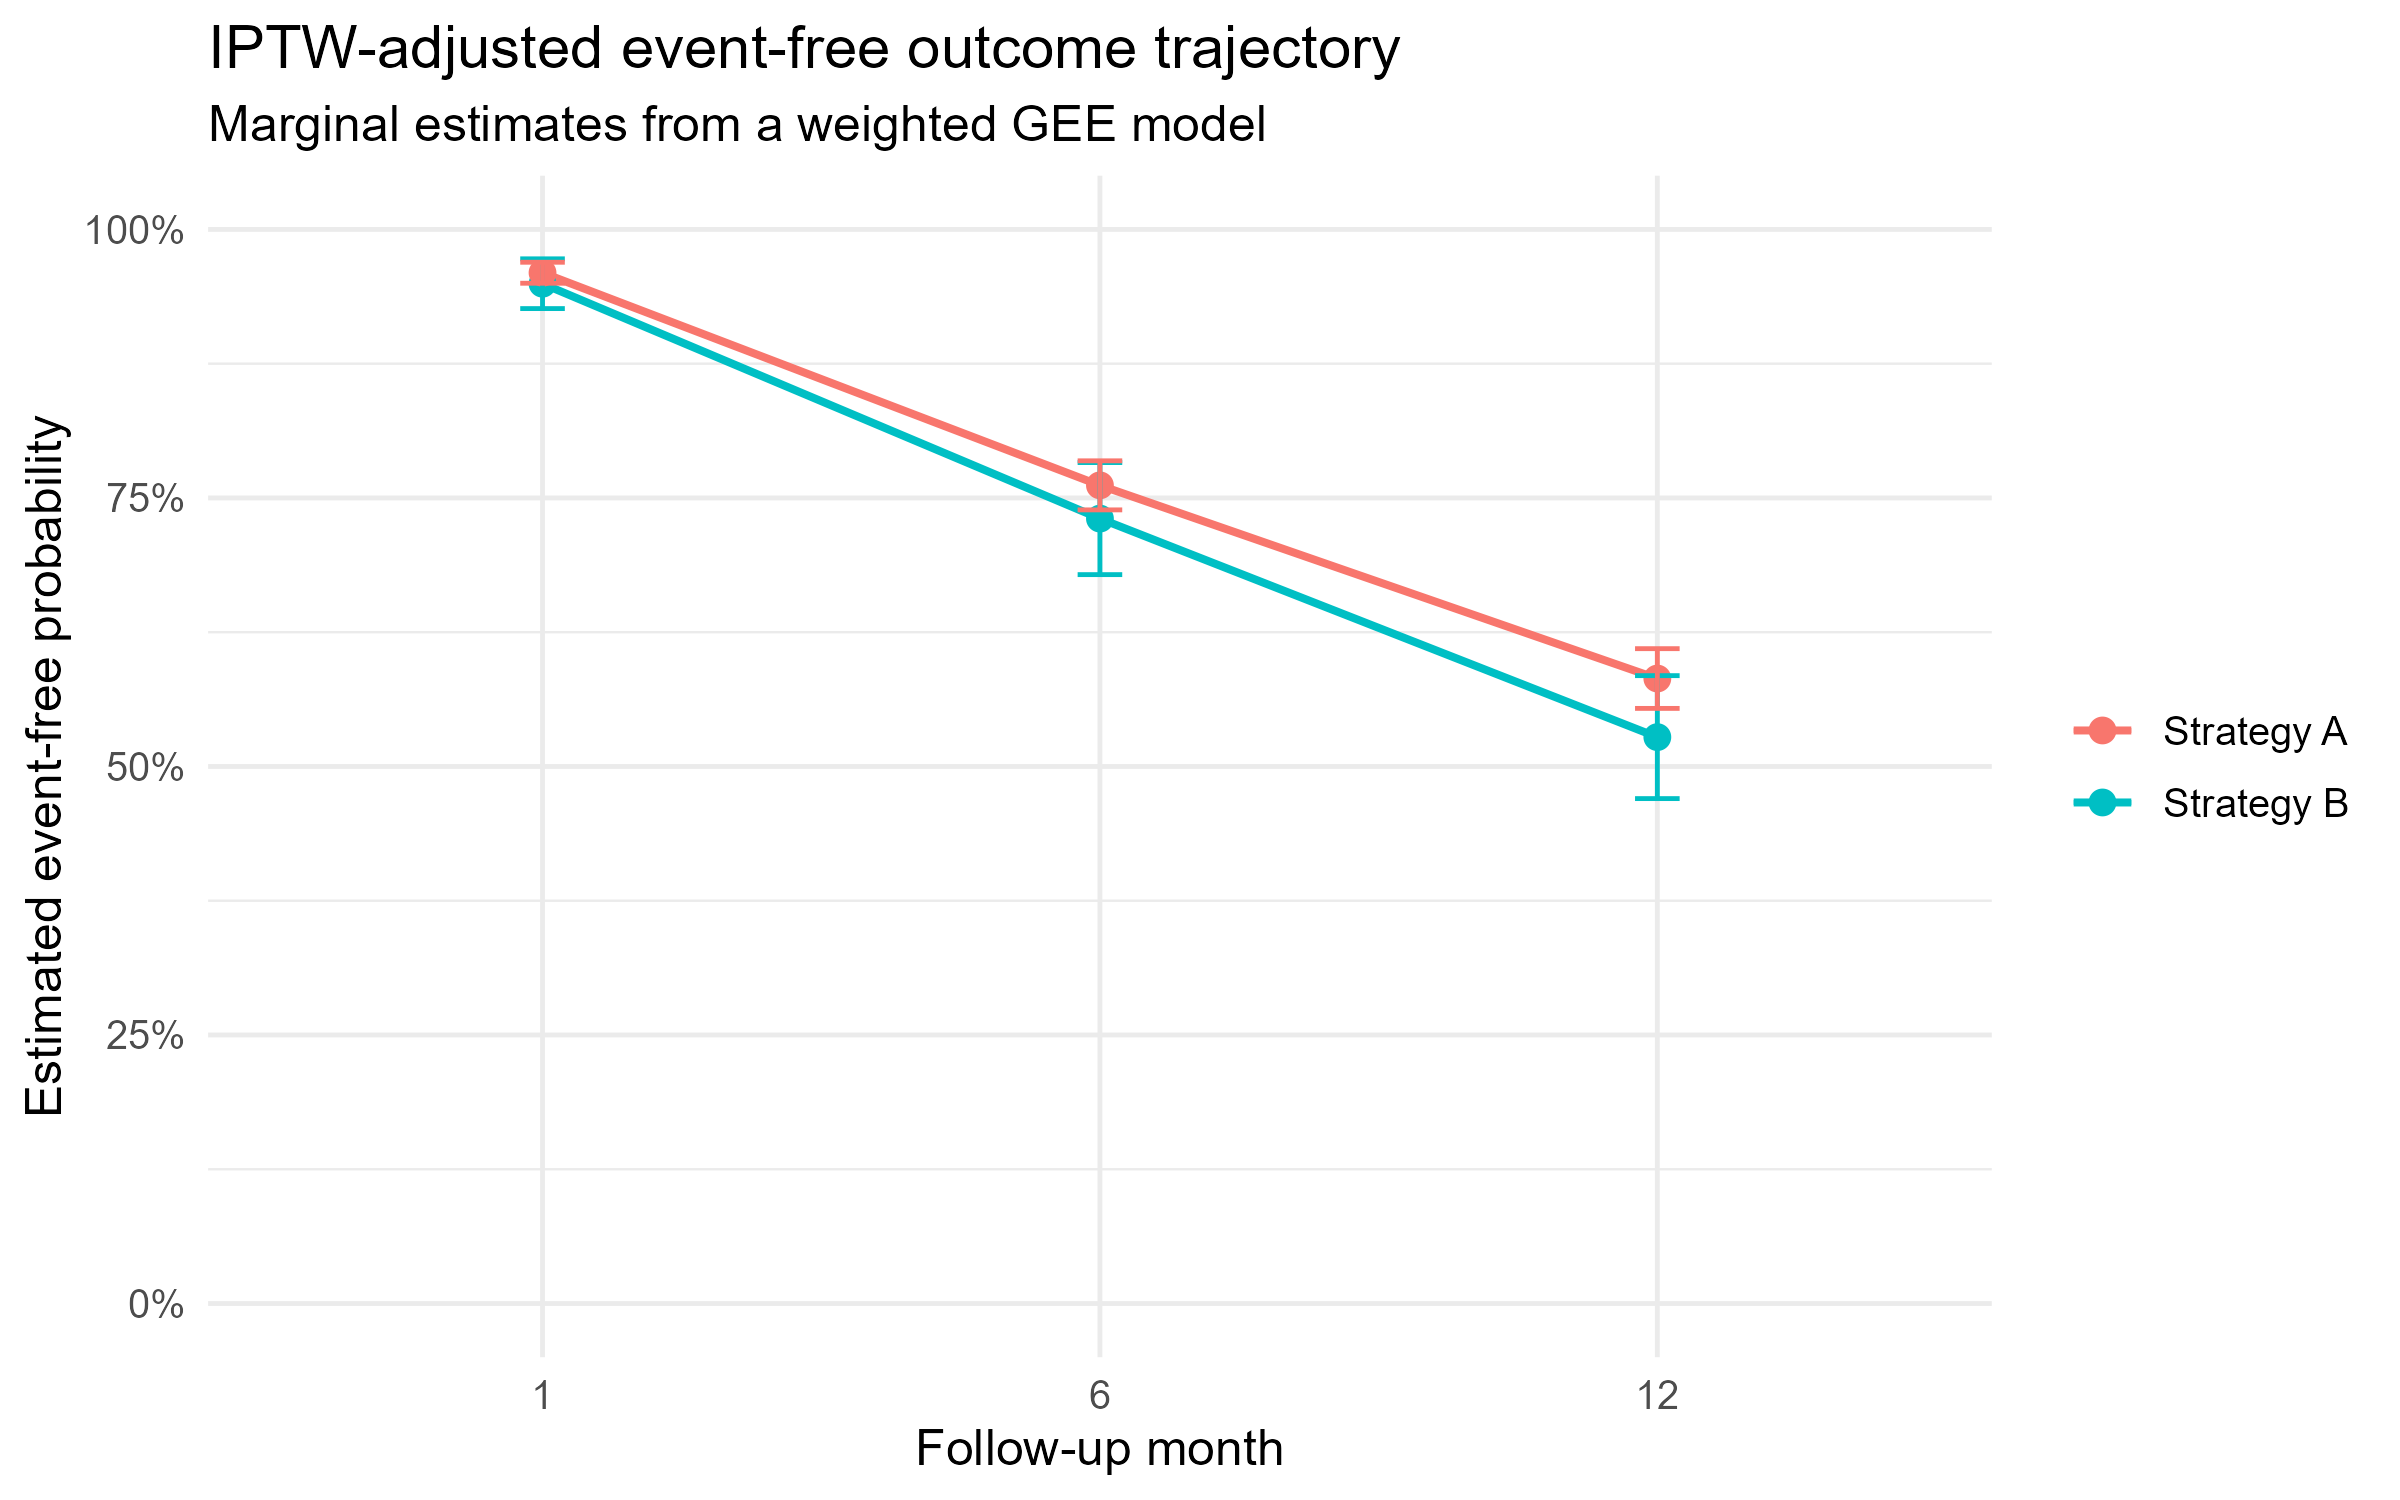
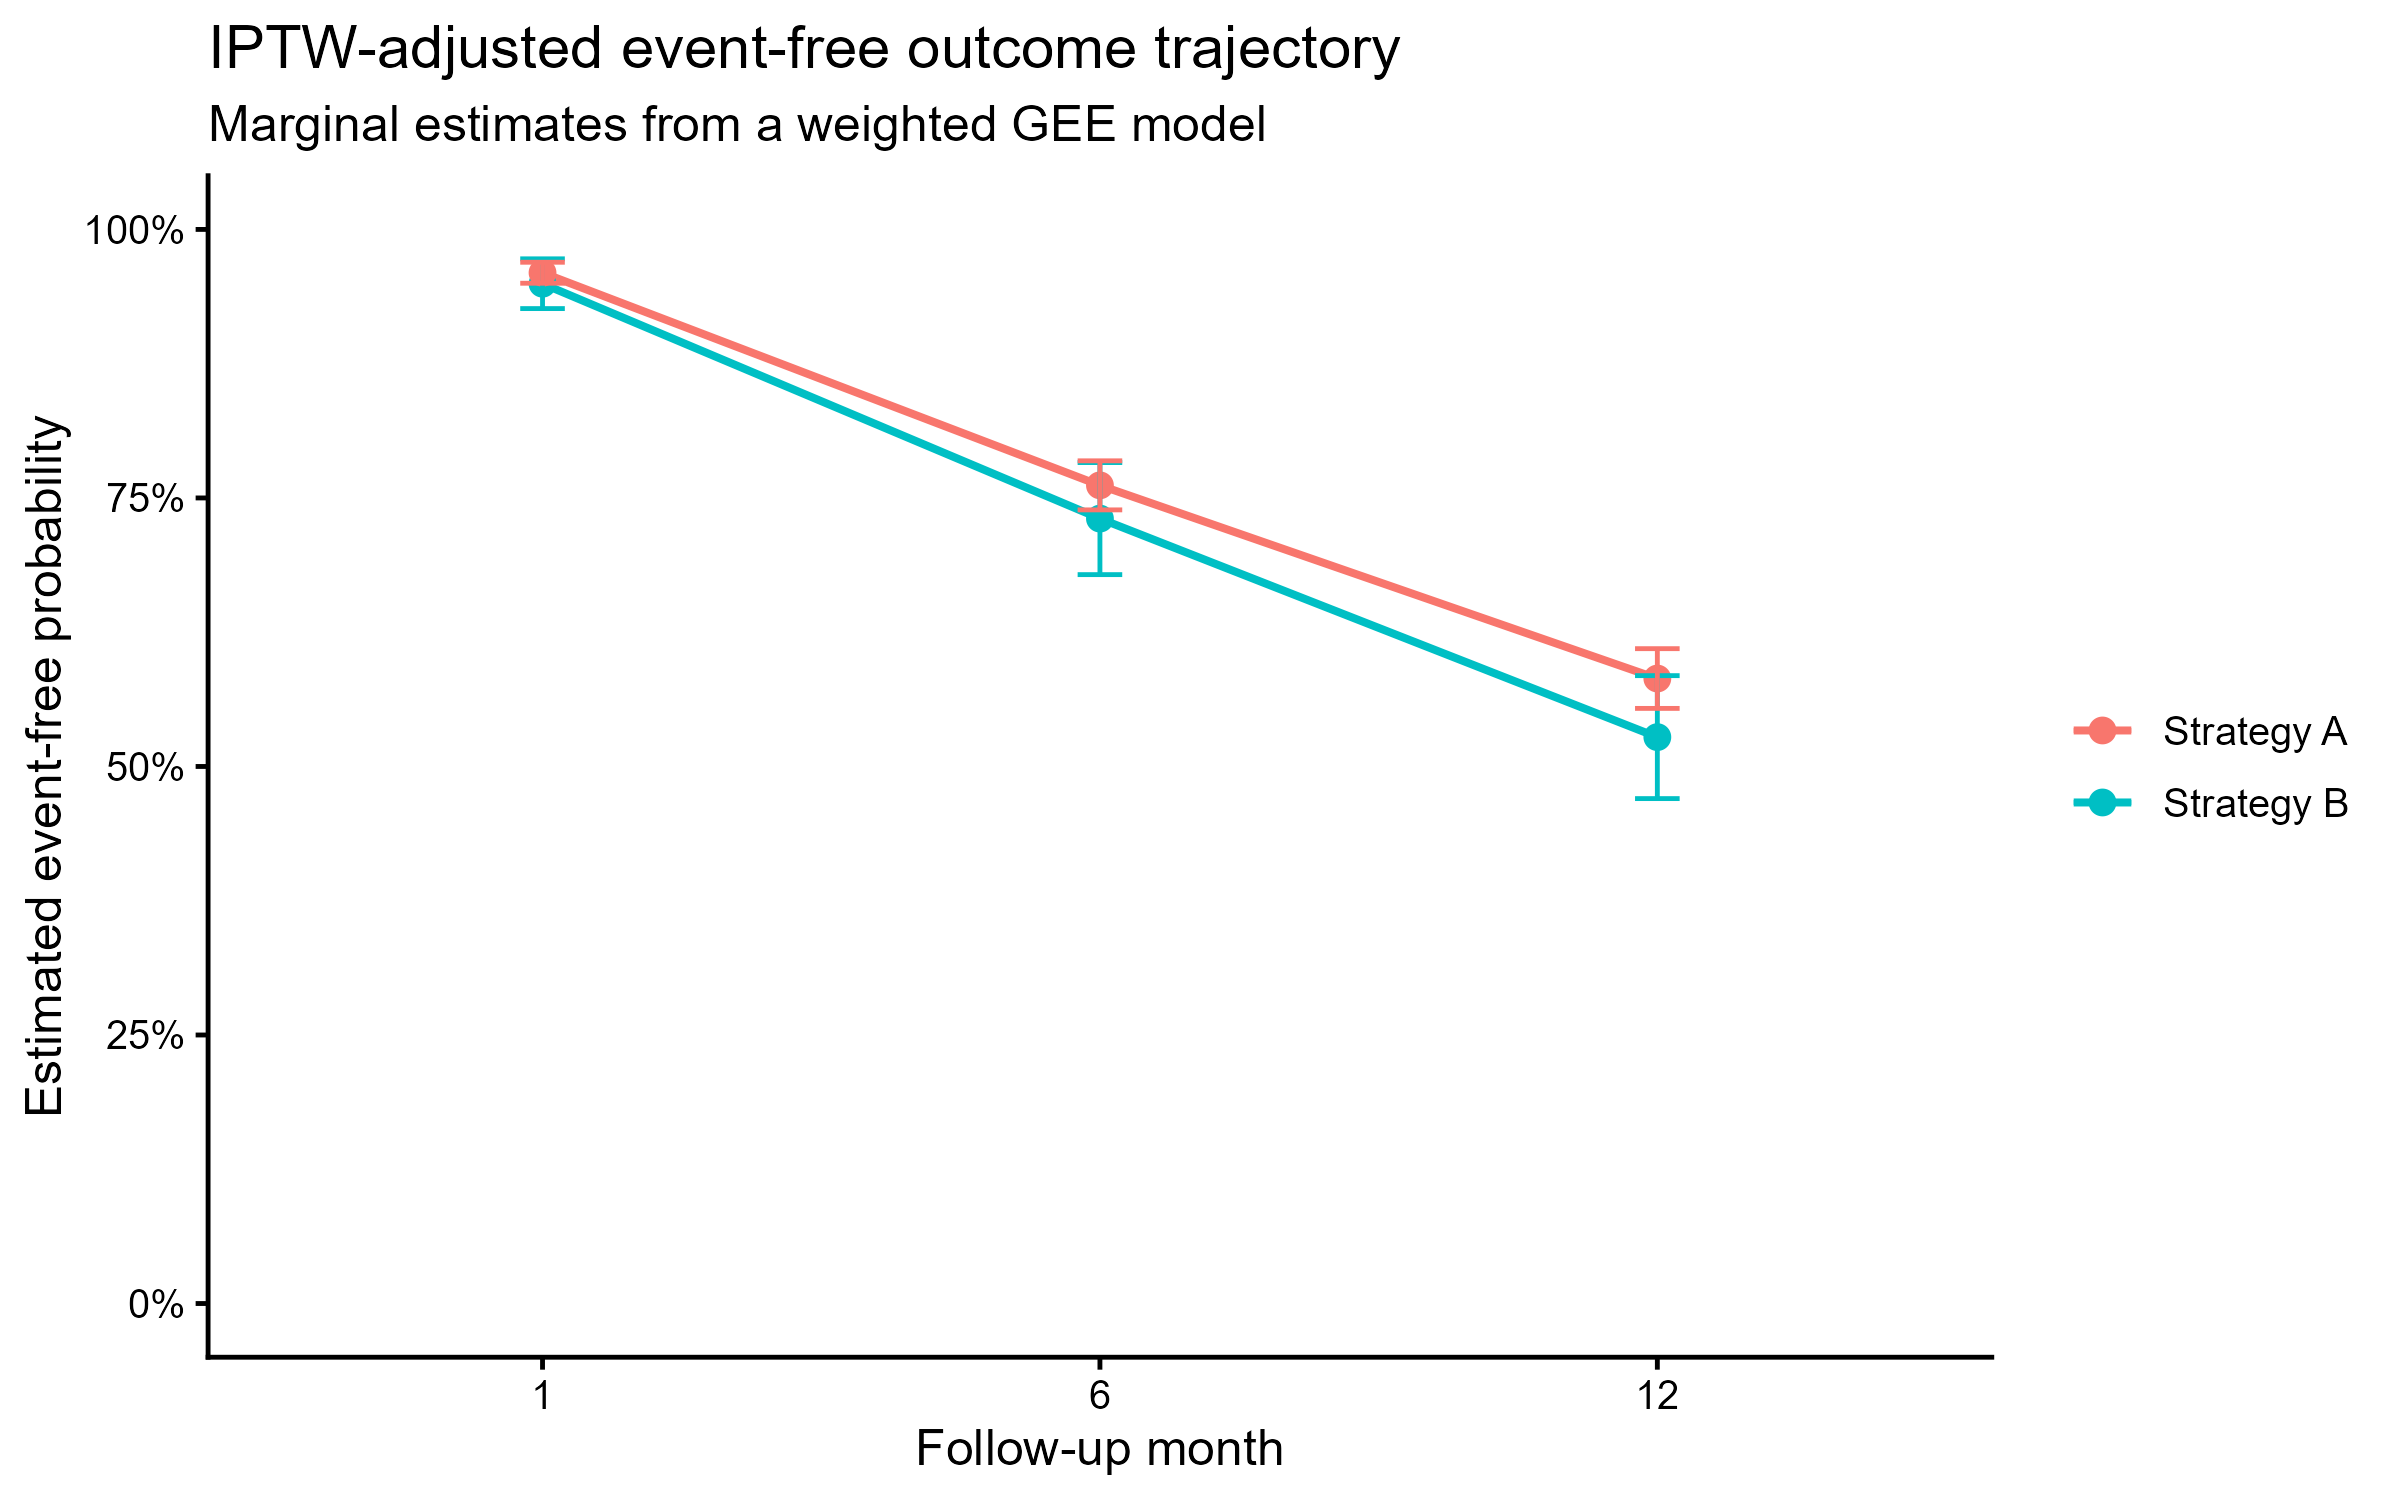
Add files via upload

diff --git a/README.md b/README.md
@@ -14,10 +14,9 @@ Among eligible individuals with a time-zero baseline assessment, what is the ave
 
 The primary estimand is the ATE at 12 months:
 
-$$
-\mathrm{ATE}_{365} =
-\mathbb{E}\left[Y^{(A)}(365) - Y^{(B)}(365)\right]
-$$
+\[
+E\{Y^{A}(365) - Y^{B}(365)\}.
+\]
 
 The simulation has a known data-generating mechanism, so the analysis can compare an unadjusted estimate, an IPTW estimate, and the known simulation truth.
 
